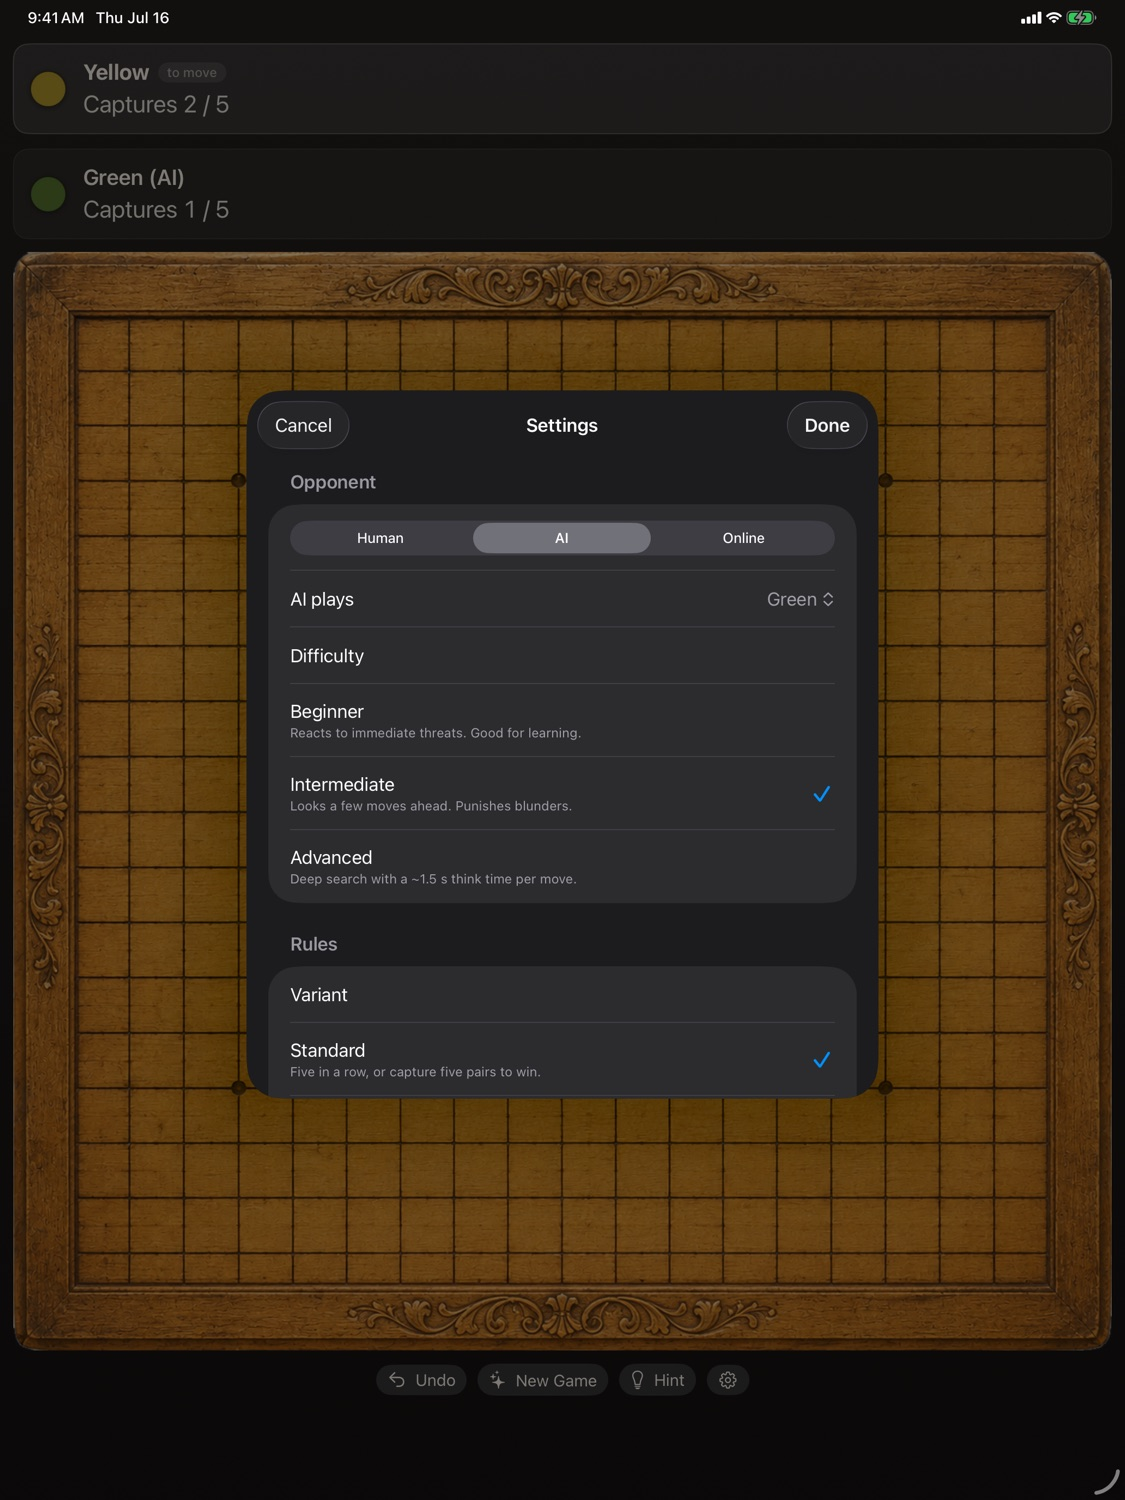
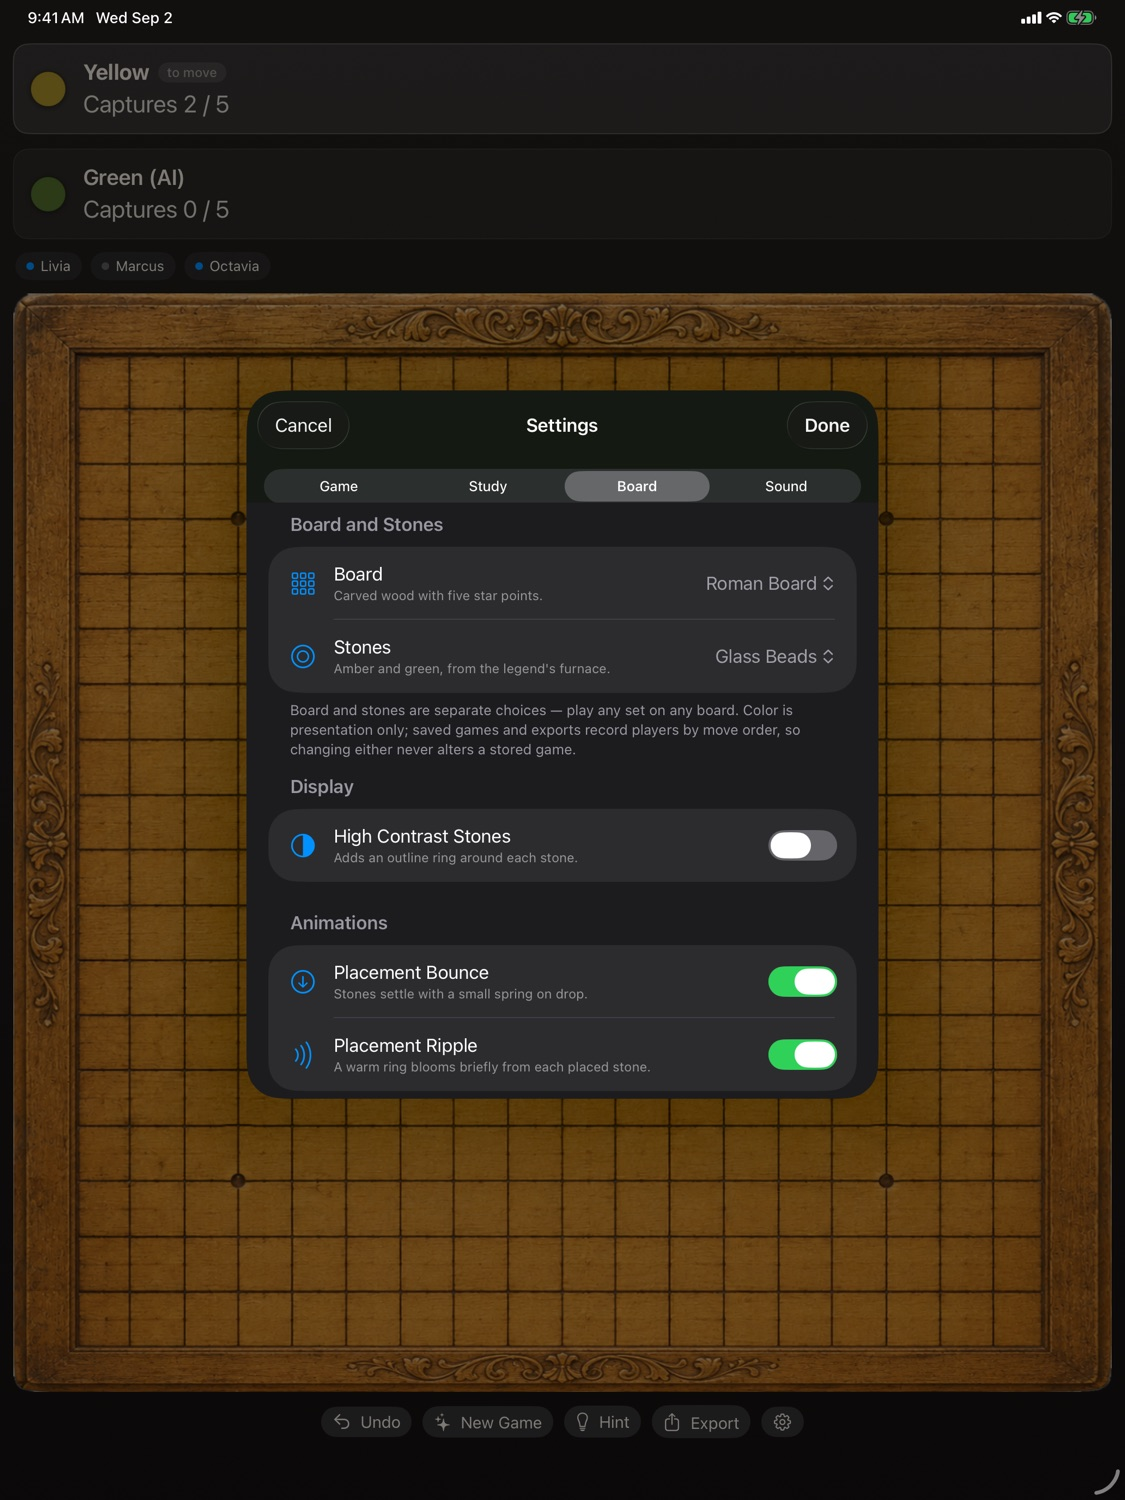
Fresh carousel and hero screenshots from the current build
The July shots predated the study tools, tabbed Settings, and the
board's-edge match chips. New captures from iPhone 17, iPad Pro 13,
and the Mac: midgames with the match chips visible, the Settings
Board tab on every device, and fresh victory boards (the Mac and
iPad sets show the Go board and slate-and-shell stones for
variety). Captions updated, cache-busted with ?v=2.

diff --git a/index.html b/index.html
@@ -377,9 +377,9 @@
       <p class="status"><span class="dot">●</span> Public beta now open for iPhone, iPad, and Mac</p>
     </div>
     <div class="composite">
-      <img class="mac" src="screenshots/mac-1.jpg" width="1600" height="1000"
+      <img class="mac" src="screenshots/mac-1.jpg?v=2" width="1600" height="1000"
            alt="Lapilli on the Mac: the carved board beside the score cards and controls">
-      <img class="iph" src="screenshots/iphone-1.jpg" width="644" height="1400"
+      <img class="iph" src="screenshots/iphone-1.jpg?v=2" width="644" height="1400"
            alt="The same game on iPhone">
     </div>
   </header>
@@ -502,27 +502,27 @@
     <div class="gallery-viewport">
       <div class="shot-strip" role="tabpanel" id="strip-ipad" aria-labelledby="tab-ipad" data-device="ipad">
         <figure class="shot-slide">
-          <img src="screenshots/ipad-1.jpg" alt="A midgame of Lapilli on iPad" loading="lazy">
-          <figcaption>A midgame against the computer</figcaption>
+          <img src="screenshots/ipad-1.jpg?v=2" alt="A midgame of Lapilli on iPad" loading="lazy">
+          <figcaption>A midgame — matches waiting at the board's edge</figcaption>
         </figure>
         <figure class="shot-slide">
           <img src="screenshots/ipad-2.jpg" alt="The Lapilli tutorial on iPad" loading="lazy">
           <figcaption>A tutorial walks through every rule</figcaption>
         </figure>
         <figure class="shot-slide">
-          <img src="screenshots/ipad-3.jpg" alt="Lapilli settings on iPad" loading="lazy">
-          <figcaption>Variants, sound, and online play</figcaption>
+          <img src="screenshots/ipad-3.jpg?v=2" alt="Lapilli settings on iPad" loading="lazy">
+          <figcaption>Boards, stones, and settings by topic</figcaption>
         </figure>
         <figure class="shot-slide">
-          <img src="screenshots/ipad-4.jpg" alt="A five-in-a-row victory in Lapilli on iPad" loading="lazy">
+          <img src="screenshots/ipad-4.jpg?v=2" alt="A five-in-a-row victory in Lapilli on iPad" loading="lazy">
           <figcaption>Five in a row — the mountain has spoken</figcaption>
         </figure>
       </div>
 
       <div class="shot-strip hidden" role="tabpanel" id="strip-iphone" aria-labelledby="tab-iphone" data-device="iphone">
         <figure class="shot-slide">
-          <img src="screenshots/iphone-1.jpg" alt="A midgame of Lapilli on iPhone" loading="lazy">
-          <figcaption>A midgame against the computer</figcaption>
+          <img src="screenshots/iphone-1.jpg?v=2" alt="A midgame of Lapilli on iPhone" loading="lazy">
+          <figcaption>A midgame — matches waiting at the board's edge</figcaption>
         </figure>
         <figure class="shot-slide">
           <img src="screenshots/iphone-5.jpg" alt="The Lapilli board zoomed in on iPhone, stones at full size" loading="lazy">
@@ -533,8 +533,8 @@
           <figcaption>A tutorial walks through every rule</figcaption>
         </figure>
         <figure class="shot-slide">
-          <img src="screenshots/iphone-3.jpg" alt="Lapilli settings on iPhone" loading="lazy">
-          <figcaption>Variants, sound, and online play</figcaption>
+          <img src="screenshots/iphone-3.jpg?v=2" alt="Lapilli settings on iPhone" loading="lazy">
+          <figcaption>Boards, stones, and settings by topic</figcaption>
         </figure>
         <figure class="shot-slide">
           <img src="screenshots/iphone-4.jpg" alt="A five-in-a-row victory in Lapilli on iPhone" loading="lazy">
@@ -544,19 +544,19 @@
 
       <div class="shot-strip hidden" role="tabpanel" id="strip-mac" aria-labelledby="tab-mac" data-device="mac">
         <figure class="shot-slide">
-          <img src="screenshots/mac-1.jpg" alt="A midgame of Lapilli on Mac" loading="lazy">
-          <figcaption>A midgame against the computer</figcaption>
+          <img src="screenshots/mac-1.jpg?v=2" alt="A midgame of Lapilli on Mac" loading="lazy">
+          <figcaption>A midgame — matches waiting at the board's edge</figcaption>
         </figure>
         <figure class="shot-slide">
           <img src="screenshots/mac-2.jpg" alt="The Lapilli tutorial on Mac" loading="lazy">
           <figcaption>A tutorial walks through every rule</figcaption>
         </figure>
         <figure class="shot-slide">
-          <img src="screenshots/mac-3.jpg" alt="Lapilli settings on Mac" loading="lazy">
-          <figcaption>Variants, sound, and online play</figcaption>
+          <img src="screenshots/mac-3.jpg?v=2" alt="Lapilli settings on Mac" loading="lazy">
+          <figcaption>Boards, stones, and settings by topic</figcaption>
         </figure>
         <figure class="shot-slide">
-          <img src="screenshots/mac-4.jpg" alt="A five-in-a-row victory in Lapilli on Mac" loading="lazy">
+          <img src="screenshots/mac-4.jpg?v=2" alt="A five-in-a-row victory in Lapilli on Mac" loading="lazy">
           <figcaption>Five in a row — the mountain has spoken</figcaption>
         </figure>
       </div>
